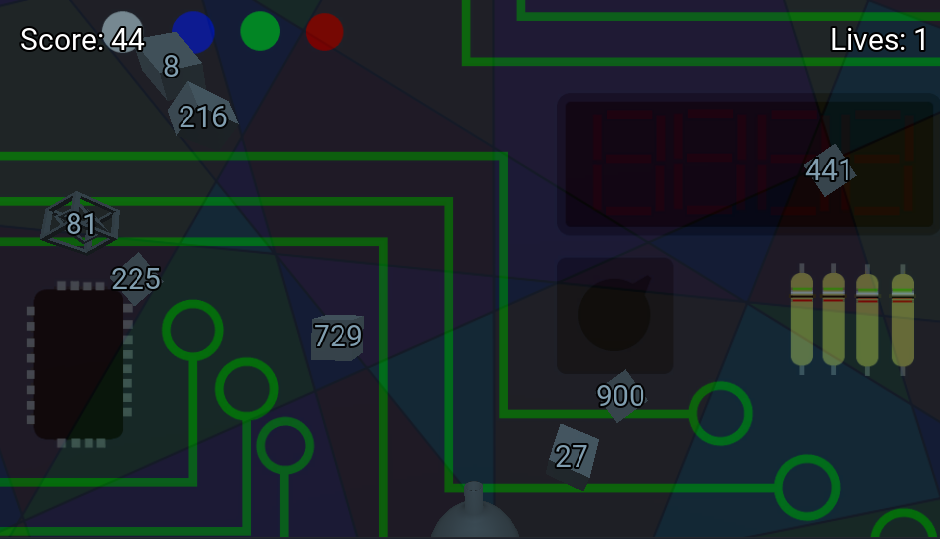
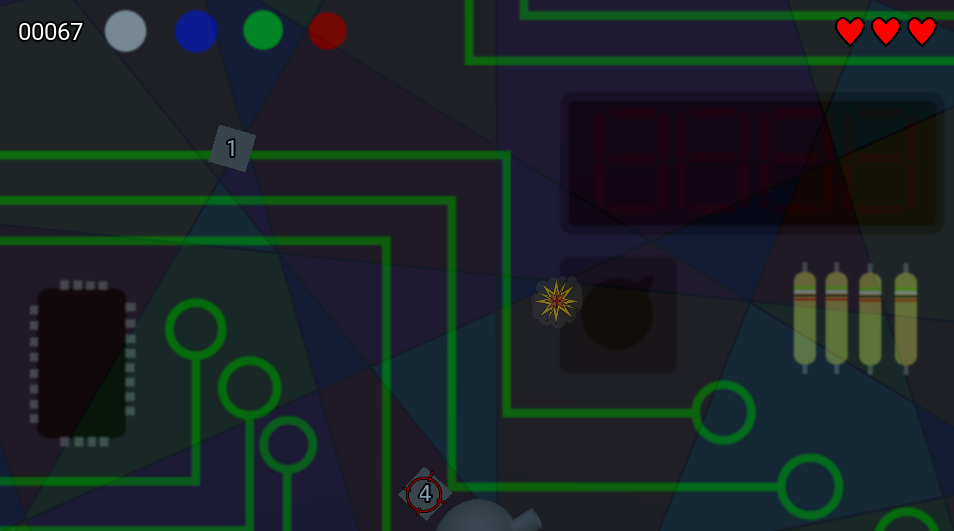
Media work

diff --git a/README.md b/README.md
@@ -1,0 +1,8 @@
+# power-push
+This game was created as a project for [Global Game Jam 2023](https://globalgamejam.org/2023/games/power-push-4)
+The theme for the game jam was "roots"
+
+In this game, the player must defend against an endless bombardment of shapes. Squares can be defeated by typing their square root; cubes, their cube root;
+and tesseracts, their fourth root.
+
+Executable exported builds for Windows, OSX, and Linuk can be found in the 'builds' folder.
